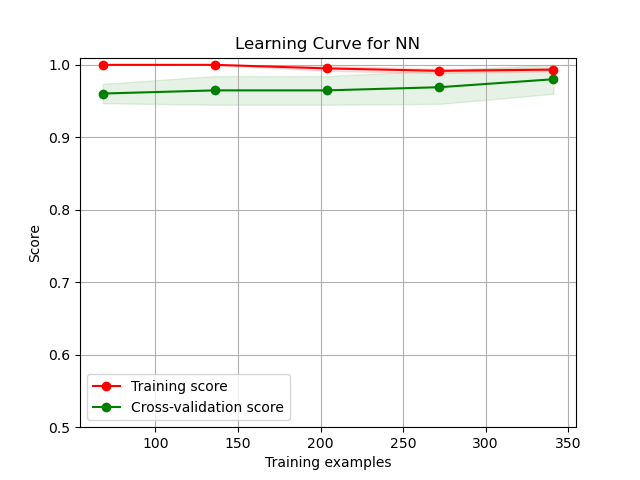
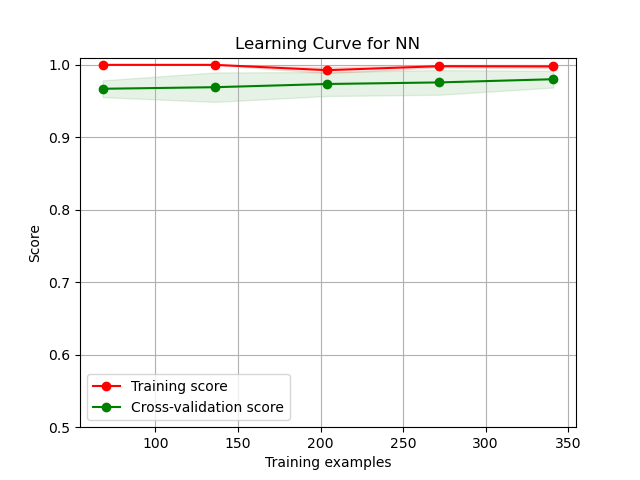
pr1 update nn parameter

Changed region(s): [[0.1562, 0.125, 0.875, 0.2188]]

diff --git a/pr1/NN.py b/pr1/NN.py
@@ -24,7 +24,8 @@ class NeuralNetwork(object):
         build and train decision tree
         """
         clf_nn = MLPClassifier(random_state=42, max_iter=2000)
-        param_grid = {'hidden_layer_sizes': np.arange(1, 100, 10)}
+        param_grid = {'hidden_layer_sizes': np.arange(1, 100, 10),
+                      'alpha': np.logspace(-5, 3, 10)}
         clf_nn.fit(X_train,y_train)
         print("NN Accuracy on the Train set: ", clf_nn.score(X_train, y_train))
 
@@ -45,7 +46,7 @@ class NeuralNetwork(object):
         if self.verbose:
             util.plot_learning_curve(self.dataset, best_nn, X_train, y_train, np.linspace(0.2,1,5, endpoint=True), title="Learning Curve for NN")
             util.plot_validation_curve(self.dataset, best_nn, X_train, y_train, title="Validation Curve for Neural Network over hidden_layer_sizes", xlabel='hidden_layer_sizes', p_name="hidden_layer_sizes", p_range=np.arange(1, 100, 10), cv=4)
-            util.plot_validation_curve(self.dataset, best_nn, X_train, y_train, title="Validation Curve for Neural Network over activation", xlabel='activation', p_name="activation", p_range=['identity', 'logistic', 'tanh', 'relu'], cv=4)
+            util.plot_validation_curve(self.dataset, best_nn, X_train, y_train, title="Validation Curve for Neural Network over alpha", xlabel='alpha', p_name="alpha", p_range=np.logspace(-5, 3, 10), cv=4, log=True)
         
         start = time.time()
         best_nn.fit(X_train, y_train)

diff --git a/pr1/READEME.md b/pr1/READEME.md
@@ -1,141 +1,26 @@
-- [ ] Datasets
-    - [ ] Select two datasets
-    - [ ] Preprocess datasets
-    - [ ] Choose a performance metric (accuracy, error, precision or recall) for each dataset and justify choice
-    - [ ] Introduce each dataset and write why they are interesting, and brief description of the preprocessing
-- [ ] Talk about overall experimental methodology
-- [ ] Decision Trees (DT)
-    - [ ] Learning Curve plot and analysis
-        - [ ] Keep the optimal hyperparameter choice . Vary the training data set size , train models with data and plot the curves
-        - [ ] bias and variance / overfit and underfit analysis
-    - [ ] Validation curves for at least two hyperparameters
-        - [ ] Pruning is a required hyperparameter
-        - [ ] Vary hyperparameter of interest keeping all other optimal hyperparameters fixed and train the models and plot the curves 
-        - [ ] bias and variance / overfit and underfit analysis
-    - [ ] Add intermidate learning or validation curve to show suboptimal performance and analysis
-    - [ ] Link back results to some algorithmic behavior, hyperparameter interaction between the algorithm and input data, etc
-    - [ ] Document wall clock times
-    - [ ] Tune model to be optimal (GridSearch allowed)
-    - [ ] Analyze results isolated to other algoritms
-    - [ ] Compare and contrast results across algorithms and across datasets
-- [ ] Neural Networks (NN)
-    - [ ] Learning Curve plot and analysis
-        - [ ] X axis should be iterations or epoch - ie loss curve
-        - [ ] Keep the optimal hyperparameter choice . Vary the training data set size , train models with data and plot the curves
-        - [ ] Bias and variance / overfit and underfit analysis
-    - [ ] Validation curves for at least two hyperparameters
-        - [ ] Hidden Layer Size is a required hyperparameter
-        - [ ] Vary hyperparameter of interest keeping all other optimal hyperparameters fixed and train the models and plot the curves 
-        - [ ] Bias and variance / overfit and underfit analysis
-    - [ ] Add intermidate learning or validation curve to show suboptimal performance and analysis
-    - [ ] Link back results to some algorithmic behavior, hyperparameter interaction between the algorithm and input data, etc
-    - [ ] Document wall clock times
-    - [ ] Tune model to be optimal (GridSearch allowed)
-    - [ ] Analyze results isolated to other algoritms
-    - [ ] Compare and contrast results across algorithms and across datasets
-- [ ] Boosting
-    - [ ] Learning Curve plot and analysis
-        - [ ] Keep the optimal hyperparameter choice . Vary the training data set size , train models with data and plot the curves
-        - [ ] Bias and variance / overfit and underfit analysis
-    - [ ] Validation curves for at least two hyperparameters
-        - [ ] \# of Weak Learners is a required hyperparameter
-        - [ ] Vary hyperparameter of interest keeping all other optimal hyperparameters fixed and train the models and plot the curves 
-        - [ ] Bias and variance / overfit and underfit analysis
-    - [ ] Add intermidate learning or validation curve to show suboptimal performance and analysis
-    - [ ] Link back results to some algorithmic behavior, hyperparameter interaction between the algorithm and input data, etc
-    - [ ] Document wall clock times
-    - [ ] Tune model to be optimal (GridSearch allowed)
-    - [ ] Analyze results isolated to other algoritms
-    - [ ] Compare and contrast results across algorithms and across datasets
-- [ ] Support vector machines (SVM)
-    - [ ] Learning Curve plot and analysis
-        - [ ] Keep the optimal hyperparameter choice . Vary the training data set size , train models with data and plot the curves
-        - [ ] Bias and variance / overfit and underfit analysis
-    - [ ] Validation curves for at least two hyperparameters
-        - [ ] Kernel Type is a required hyperparameter
-        - [ ] Vary hyperparameter of interest keeping all other optimal hyperparameters fixed and train the models and plot the curves 
-        - [ ] Bias and variance / overfit and underfit analysis
-    - [ ] Add intermidate learning or validation curve to show suboptimal performance and analysis
-    - [ ] Link back results to some algorithmic behavior, hyperparameter interaction between the algorithm and input data, etc
-    - [ ] Document wall clock times
-    - [ ] Tune model to be optimal (GridSearch allowed)
-    - [ ] Analyze results isolated to other algoritms
-    - [ ] Compare and contrast results across algorithms and across datasets
-- [ ] K-Nearest Neighbor (kNN)
-    - [ ] Learning Curve plot and analysis
-        - [ ] Keep the optimal hyperparameter choice . Vary the training data set size , train models with data and plot the curves
-        - [ ] Bias and variance / overfit and underfit analysis
-    - [ ] Validation curves for at least two hyperparameters
-        - [ ] K is a required hyperparameter
-        - [ ] Vary hyperparameter of interest keeping all other optimal hyperparameters fixed and train the models and plot the curves 
-        - [ ] Bias and variance / overfit and underfit analysis
-    - [ ] Add intermidate learning or validation curve to show suboptimal performance and analysis
-    - [ ] Link back results to some algorithmic behavior, hyperparameter interaction between the algorithm and input data, etc
-    - [ ] Document wall clock times
-    - [ ] Tune model to be optimal (GridSearch allowed)
-    - [ ] Analyze results isolated to other algoritms
-    - [ ] Compare and contrast results across algorithms and across datasets
-- [ ] Write solid conclusion
 
-Loading MNIST dataset...
-MNIST dataset loaded.
-At depth: 15
-Decision Tree Accuracy on the Train set:  1.0
-Best parameters: {'ccp_alpha': 0.0, 'max_depth': 11}
-Decision Tree Training time: 0.015166282653808594
-Best Decision Tree Accuracy on the Train set:  0.9832985386221295
-Decision Tree Accuracy on the Test set:  0.8388888888888889
-At depth: 3
-Base Decision Tree Accuracy on the Train set:  0.4732080723729993
-Best parameters: {'learning_rate': 1.584893192461114, 'n_estimators': 161}
-Boost Decision Tree Training time: 1.5463809967041016
-Boost Decision Tree Accuracy on the Train set:  0.9749478079331941
-Boost Decision Tree Accuracy on the Test set:  0.9583333333333334
-KNN Accuracy on the Train set:  0.9895615866388309
-Best parameters: {'n_neighbors': 4, 'weights': 'distance'}
-KNN Training time: 0.0012154579162597656
-Best KNN Accuracy on the Train set:  1.0
-KNN Accuracy on the Test set:  0.9833333333333333
-Best parameters: {'C': 9.999999999999999e-11, 'gamma': 46.41588833612792}
-Best parameters: {'C': 46.41588833612792, 'gamma': 0.00046415888336127817}
-Best parameters: {'C': 2154.4346900318865, 'gamma': 9.999999999999999e-06}
-SVM Accuracy on the Train setwith linear, poly, rbf and sigmoid:  [0.9979123173277662, 0.9965205288796103, 0.9067501739735561]
-SVM Training time with linear, poly, rbf and sigmoid: [0.02213001251220703, 0.04064059257507324, 0.04100751876831055]
-Best SVM Accuracy on the Train set with linear, poly, rbf and sigmoid:  [1.0, 1.0, 1.0]
-SVM Accuracy on the Test set with linear, poly, rbf and sigmoid:  [0.9861111111111112, 0.9888888888888889, 0.9777777777777777]
-NN Accuracy on the Train set:  1.0
-Best parameters: {'activation': 'logistic', 'hidden_layer_sizes': 71}
-NN Training time: 1.6659457683563232
-Best NN Accuracy on the Train set:  1.0
-NN Accuracy on the Test set:  0.9805555555555555
-Loading Breast Cancer Wisconsin dataset...
-Breast Cancer Wisconsin dataset loaded.
-At depth: 7
-Decision Tree Accuracy on the Train set:  1.0
-Best parameters: {'ccp_alpha': 0.00736842105263158, 'max_depth': 7}
-Decision Tree Training time: 0.008636951446533203
-Best Decision Tree Accuracy on the Train set:  0.989010989010989
-Decision Tree Accuracy on the Test set:  0.956140350877193
-At depth: 3
-Base Decision Tree Accuracy on the Train set:  0.978021978021978
-Best parameters: {'learning_rate': 1.584893192461114, 'n_estimators': 61}
-Boost Decision Tree Training time: 0.38782358169555664
-Boost Decision Tree Accuracy on the Train set:  1.0
-Boost Decision Tree Accuracy on the Test set:  0.956140350877193
-KNN Accuracy on the Train set:  0.9802197802197802
-Best parameters: {'n_neighbors': 10, 'weights': 'distance'}
-KNN Training time: 0.0010268688201904297
-Best KNN Accuracy on the Train set:  1.0
-KNN Accuracy on the Test set:  0.956140350877193
-Best parameters: {'C': 4.641588833612772e-09, 'gamma': 46.41588833612792}
-Best parameters: {'C': 46.41588833612792, 'gamma': 0.00046415888336127817}
-Best parameters: {'C': 2154.4346900318865, 'gamma': 0.00046415888336127817}
-SVM Accuracy on the Train setwith linear, poly, rbf and sigmoid:  [0.9142857142857143, 0.9868131868131869, 0.9516483516483516]
-SVM Training time with linear, poly, rbf and sigmoid: [0.0032660961151123047, 0.003004312515258789, 0.0035986900329589844]
-Best SVM Accuracy on the Train set with linear, poly, rbf and sigmoid:  [0.9736263736263736, 0.9824175824175824, 0.9868131868131869]
-SVM Accuracy on the Test set with linear, poly, rbf and sigmoid:  [0.956140350877193, 0.9824561403508771, 0.956140350877193]
-NN Accuracy on the Train set:  0.9956043956043956
-Best parameters: {'activation': 'logistic', 'hidden_layer_sizes': 61}
-NN Training time: 0.48192429542541504
-Best NN Accuracy on the Train set:  0.9868131868131869
-NN Accuracy on the Test set:  0.9912280701754386
+Datasets:
+1 - digits: The MNIST database (sklearn.datasets)
+2 - cancer: Breast Cancer Wisconsin (https://www.kaggle.com/datasets/uciml/breast-cancer-wisconsin-data)
+
+Environment:
+python:  3.10.12
+scikit-learn: 1.2.2
+numpy: 1.24.2
+matplotlib: 3.5.1
+
+Code structure and running instruction: 
+main.py
+    - util.py
+        plot functions
+    - experiment1.py
+        conduct experiment using digits data
+    - experiment2.py
+        conduct experiment using cancer data
+    - supervised learner classes
+        - DT.py
+        - NN.py
+        - Boosting.py
+        - KNN.py
+        - SVM.py
+Run main.py with python3 main.py will generate all images under /img folder.
